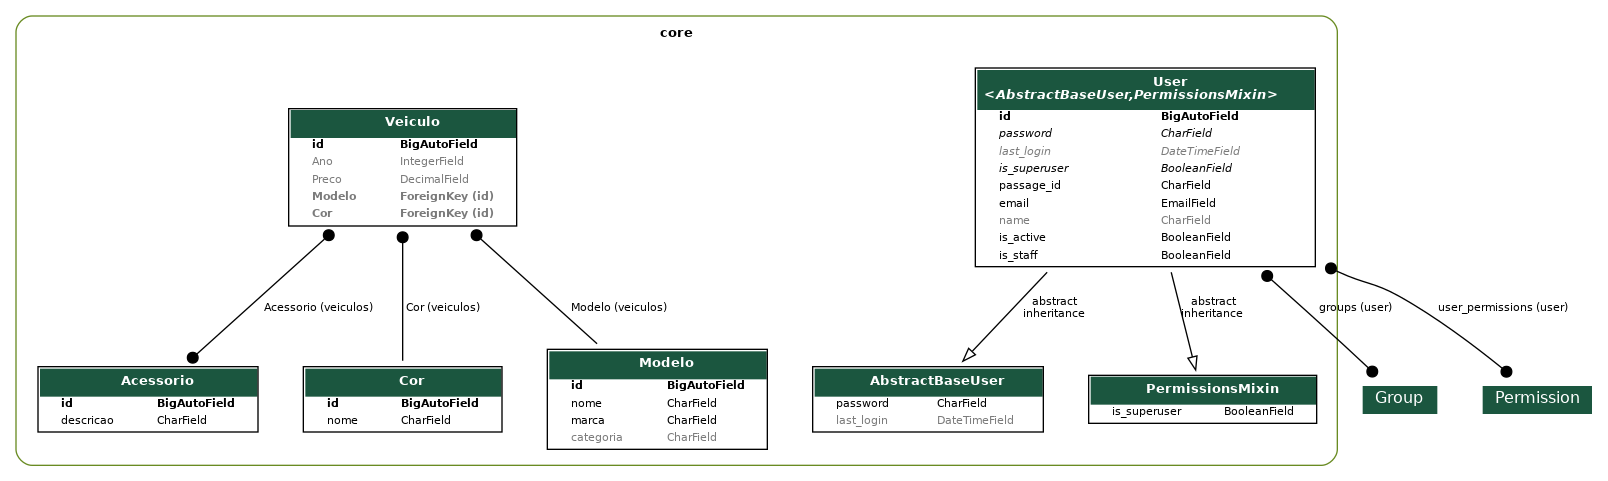
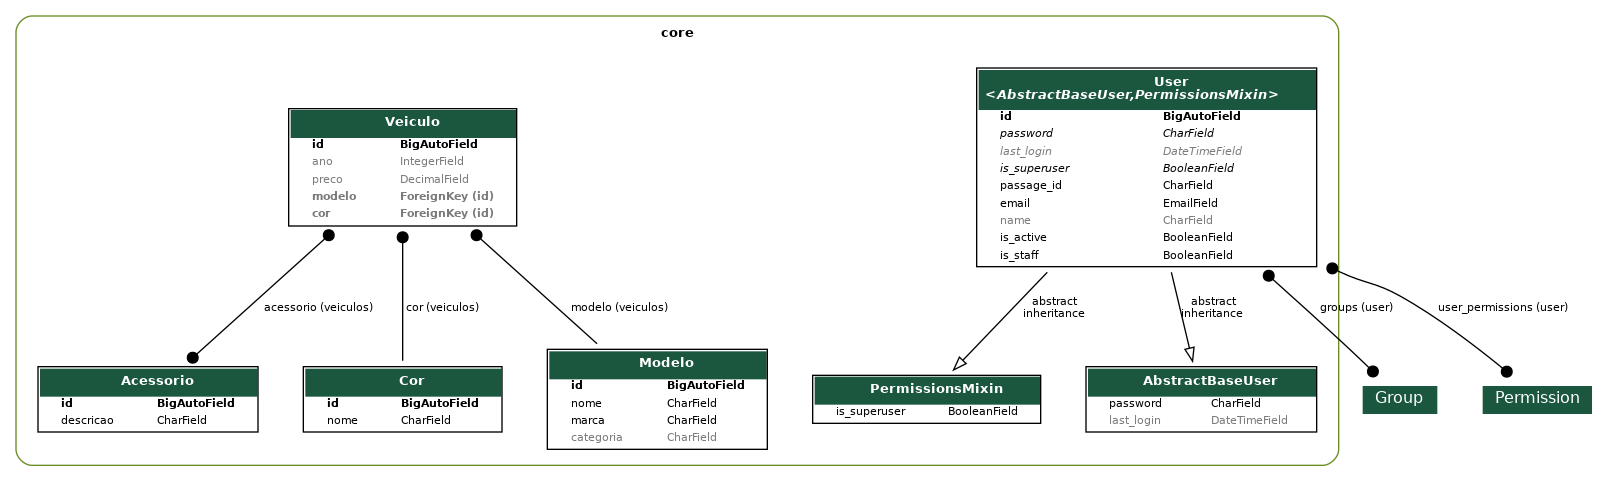
correção

diff --git a/core/models/veiculo.py b/core/models/veiculo.py
@@ -6,11 +6,11 @@ from .modelo import Modelo
 
 
 class Veiculo(models.Model):
-    Ano = models.IntegerField(default=0, null=True, blank=True)
-    Preco = models.DecimalField(max_digits=10, decimal_places=2, default=0, blank=True, null=True)
-    Modelo = models.ForeignKey(Modelo, on_delete=models.PROTECT, related_name='veiculos', null=True, blank=True)
-    Cor = models.ForeignKey(Cor, on_delete=models.PROTECT, related_name='veiculos', null=True, blank=True)
-    Acessorio = models.ManyToManyField(Acessorio, related_name='veiculos', null=True, blank=True)
+    ano = models.IntegerField(default=0, null=True, blank=True)
+    preco = models.DecimalField(max_digits=10, decimal_places=2, default=0, blank=True, null=True)
+    modelo = models.ForeignKey(Modelo, on_delete=models.PROTECT, related_name='veiculos', null=True, blank=True)
+    cor = models.ForeignKey(Cor, on_delete=models.PROTECT, related_name='veiculos', null=True, blank=True)
+    acessorio = models.ManyToManyField(Acessorio, related_name='veiculos', blank=True)
 
     def __str__(self):
-        return f"({self.id}) {self.Modelo} {self.Cor} {self.Ano}"
+        return f'({self.id}) {self.modelo} {self.cor} {self.ano}'

diff --git a/core/migrations/0010_rename_ano_veiculo_ano_rename_cor_veiculo_cor_and_more.py b/core/migrations/0010_rename_ano_veiculo_ano_rename_cor_veiculo_cor_and_more.py
@@ -1,0 +1,42 @@
+# Generated by Django 5.2 on 2025-05-27 19:07
+
+from django.db import migrations, models
+
+
+class Migration(migrations.Migration):
+
+    dependencies = [
+        ('core', '0009_veiculo'),
+    ]
+
+    operations = [
+        migrations.RenameField(
+            model_name='veiculo',
+            old_name='Ano',
+            new_name='ano',
+        ),
+        migrations.RenameField(
+            model_name='veiculo',
+            old_name='Cor',
+            new_name='cor',
+        ),
+        migrations.RenameField(
+            model_name='veiculo',
+            old_name='Modelo',
+            new_name='modelo',
+        ),
+        migrations.RenameField(
+            model_name='veiculo',
+            old_name='Preco',
+            new_name='preco',
+        ),
+        migrations.RemoveField(
+            model_name='veiculo',
+            name='Acessorio',
+        ),
+        migrations.AddField(
+            model_name='veiculo',
+            name='acessorio',
+            field=models.ManyToManyField(blank=True, related_name='veiculos', to='core.acessorio'),
+        ),
+    ]

diff --git a/core/migrations/0011_alter_cor_options.py b/core/migrations/0011_alter_cor_options.py
@@ -1,0 +1,17 @@
+# Generated by Django 5.2 on 2025-05-27 19:11
+
+from django.db import migrations
+
+
+class Migration(migrations.Migration):
+
+    dependencies = [
+        ('core', '0010_rename_ano_veiculo_ano_rename_cor_veiculo_cor_and_more'),
+    ]
+
+    operations = [
+        migrations.AlterModelOptions(
+            name='cor',
+            options={'verbose_name': 'cor', 'verbose_name_plural': 'cores'},
+        ),
+    ]

diff --git a/app/urls.py b/app/urls.py
@@ -13,7 +13,7 @@ router = DefaultRouter()
 
 router.register(r'usuarios', UserViewSet, basename='usuarios')
 router.register(r'acessorios', AcessorioViewSet, basename='acessorios')
-router.register(r'cors', CorViewSet, basename='Cors')
+router.register(r'cores', CorViewSet, basename='Cores')
 router.register(r'modelos', ModeloViewSet, basename='modelos')
 router.register(r'veiculos', VeiculoViewSet, basename='veiculos')
 

diff --git a/core/models/modelo.py b/core/models/modelo.py
@@ -7,4 +7,4 @@ class Modelo(models.Model):
     categoria = models.CharField(max_length=80, blank=True, null=True)
 
     def __str__(self):
-        return f'({self.id}) {self.marca} {self.nome}'.upper()
+        return f'({self.id}) {self.marca.upper()} {self.nome.upper()}'

diff --git a/core/models/cor.py b/core/models/cor.py
@@ -6,3 +6,7 @@ class Cor(models.Model):
 
     def __str__(self):
         return self.nome
+
+    class Meta:
+        verbose_name = 'cor'
+        verbose_name_plural = 'cores'
